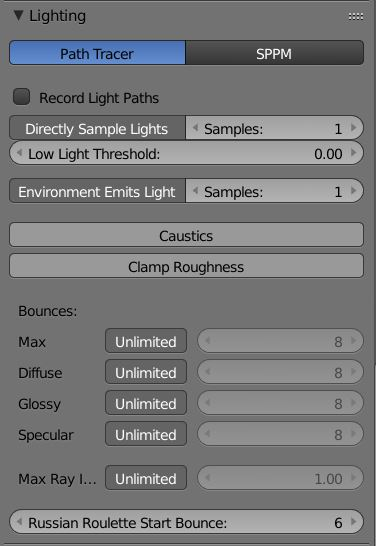
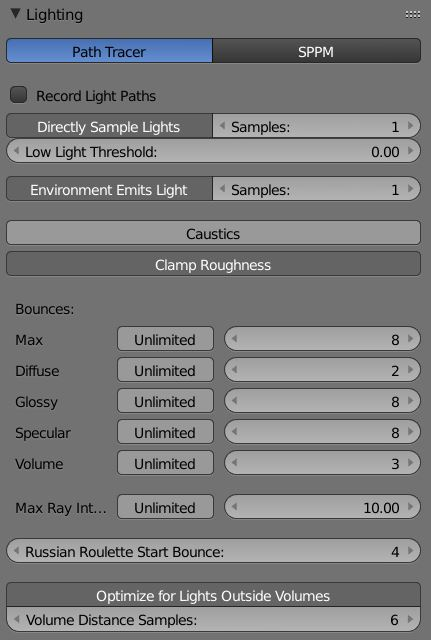
Doc updates

diff --git a/docs/installation.rst b/docs/installation.rst
@@ -4,9 +4,9 @@ Installation
 ============
 
 Download
-	Download the .zip file of the latest `blenderseed release <https://github.com/appleseedhq/blenderseed/releases>`_ for your platform. Note that as of 0.8.0 you must use Blender 2.79 or higher.
+	Download the .zip file of the latest `blenderseed release <https://github.com/appleseedhq/blenderseed/releases>`_ for your platform. appleseed itself is bundled with the addon, so no additional downloads are needed.  Note that as of 0.8.0 you must use Blender 2.79 or higher.
 
-	*Blender 2.8 is not yet supported*
+	*Blender 2.8 is not currently supported.  We will add support for it once the Python API has been finalized.*
 
 Install
 	From within Blender, open the User Preferences (usual hotkey is Ctrl+Alt+U) and navigate to the Addons tab. Click the button that says "Install From File". Using the file dialog, select the .zip file you downloaded, and click "Install From File..."
@@ -23,7 +23,7 @@ Configure
 	Select "appleseed" from the render dropdown selector.
 
 Using Development Versions of blenderseed
-	If you want access to cutting edge features, you can also download directly from the master branch (or any other visible branches).  Any downloads will have a suffix of *'-branch name'* that needs to be removed before it will work.  Be aware that new or under development features may require an up to date build of appleseed itself, and this is not included with direct branch downloads.
+	If you want access to cutting edge features, you can also download directly from the master branch (or any other visible branches).  Any downloads will have a suffix of *'-branch name'* that needs to be removed before it will work.  Be aware that new or under development features may require an up to date build of appleseed itself, and this is not included with direct branch downloads. [#f1]_ [#f2]_
 
 Using Development Versions of appleseed
 	While appleseed is packaged with all official releases, external versions of it may be used with blenderseed.  To do so, set the following environment variables before launching Blender (Windows only):
@@ -33,3 +33,8 @@ Using Development Versions of appleseed
 
 	- APPPLESEED_BIN_DIR:
 		Set to the /bin folder of your appleseed build.
+
+.. rubric:: Footnotes:
+
+.. [#f1] If you are compiling applessed for use with blenderseed, you will need to compile appleseed with the Python 3 bindings enabled.  Please see the `build instructions <https://github.com/appleseedhq/appleseed/wiki/Building-appleseed>`_.
+.. [#f2] You must also compile with the same version of Python 3 that is used by your Blender install.  Blender 2.79 uses Python 3.5.  Current development snapshots and the 2.8 branch use Python 3.7.

diff --git a/docs/panels/render/sampling.rst b/docs/panels/render/sampling.rst
@@ -35,5 +35,5 @@ Sampling
 
 .. rubric:: Footnotes
 
-.. [#f1] Setting the passes higher than 1 and lowering the number of samples enables a featured called 'progressive rendering'.  The image will appear in its entirety after one pass and noise will be subsequently reduced with each addtional pass.
+.. [#f1] Setting the passes higher than 1 and lowering the number of samples enables a featured called 'progressive rendering'.  The image will appear in its entirety after one pass and noise will be subsequently reduced with each additional pass.
 .. [#f2] Progressive rendering is slower than single pass rendering, however it does have its advantages.  If you are not certain how many samples will be needed to create a clean image, you can set the samples to a low number and the passes number to a higher one.  When the image has reached an acceptable level of quality the render can be aborted.

diff --git a/docs/panels/render/lighting.rst b/docs/panels/render/lighting.rst
@@ -30,9 +30,12 @@ Path Tracing Engine
     - Diffuse: Sets a maximum number of diffuse bounces a ray can make.
     - Glossy: Sets the number of glossy bounces a ray can make.
     - Specular: Sets the number of specular bounces a ray can make.
+    - Volume: Sets the maximum number of volume scattering events.
     - Max Ray Intensity: Sets the maximum brightness an indirect ray can contribute to the scene.  Lowering this can remove fireflies at the expense of accurate lighting.
 - Russian Roulette Start Bounce:
     Sets the bounce after which Russian Roulette will be used to terminate rays that are not expected to contribute much to the final image.  Lowering this can increase noise but speed up rendering.
+- Optimize for Lights Outside Volumes:
+    Use this if lights sources are outside of a volume.
 
 SPPM Engine
 -----------

diff --git a/docs/panels/render/system.rst b/docs/panels/render/system.rst
@@ -7,7 +7,14 @@ General
 
 - Auto Threads
     Select this option to have appleseed automatically determine the number of rendering threads to use.  Unselect it to choose manually.
+- Render Logging
+    Selects the level of feedback from appleseed during rendering.
 - Override Shading
     Select this to replace all the shading in a scene with the selected option.  Useful for troubleshooting scene issues.
 - Texture Cache
     Sets the size of the cache used for storing textures.  Raising this will increase memory usage but may help speed up rendering.
+- Experimental Features
+    These features are active in appleseed, but maybe not quite ready for production.  Use at your own risk.
+
+    - Use Embree
+        Use Intel's Embree raytracing library.

diff --git a/docs/panels/render/denoiser.rst b/docs/panels/render/denoiser.rst
@@ -10,8 +10,14 @@ Denoiser
         Denoising will run after a render completes
     - Write Outputs:
         The render will write out several multilayer EXR files that can then be denoised at a later time using the denoise utility.  The render itself will not be denoised
+- Random Pixel Order:
+    TODO
+- Skip Denoised Pixels:
+    TODO
 - Prefilter Spikes:
-    This filter attempts to remove fireflies (overly bright pixels) from the image before denoising
+    This option tries to filter out overly bright pixels (firflies) before denoising
+- Mark Invalid Pixels:
+    TODO
 - Spike Threshold:
     How bright a pixel has to be compared to its neighbors to be considered a spike
 - Patch Distance:

diff --git a/docs/panels/object/visibility.rst b/docs/panels/object/visibility.rst
@@ -7,6 +7,8 @@ Visibility
 
 - Visibility Flags:
     These flags determine if an object is visible to specific ray types during rendering.
+- Ray Bias:
+    This is used to offset the starting point of a ray from the surface of an object.
 - Object Alpha:
     This allows a user to determine the transparency of an object.  The parameter can also be driven by a texture map, allowing for cutout effects like leaves.
 - Double Sided Shading:

diff --git a/docs/panels/material/material_panel.rst b/docs/panels/material/material_panel.rst
@@ -13,3 +13,7 @@ Material Panel
     This allows a user to set the sample count of the preview window.  Higher numbers will have longer render times.
 - Lighting Samples:
     Raising this number may resolve render noise by raising the number of direct lighting samples.
+- Shading Mode:
+    Select either OSL surface shading or volume shading.
+- Volume:
+    Selects the volume shading mode to be used.
